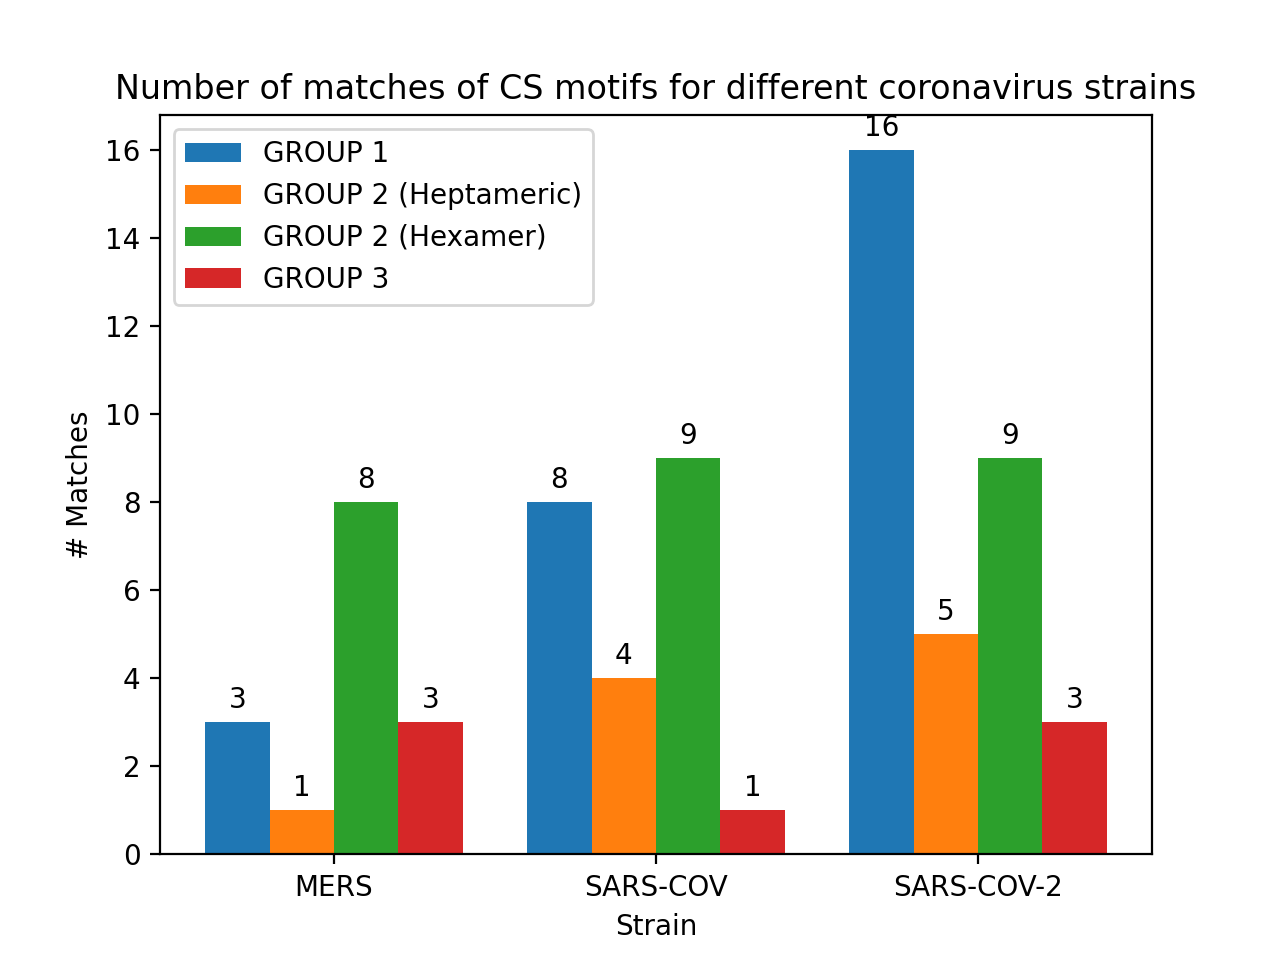
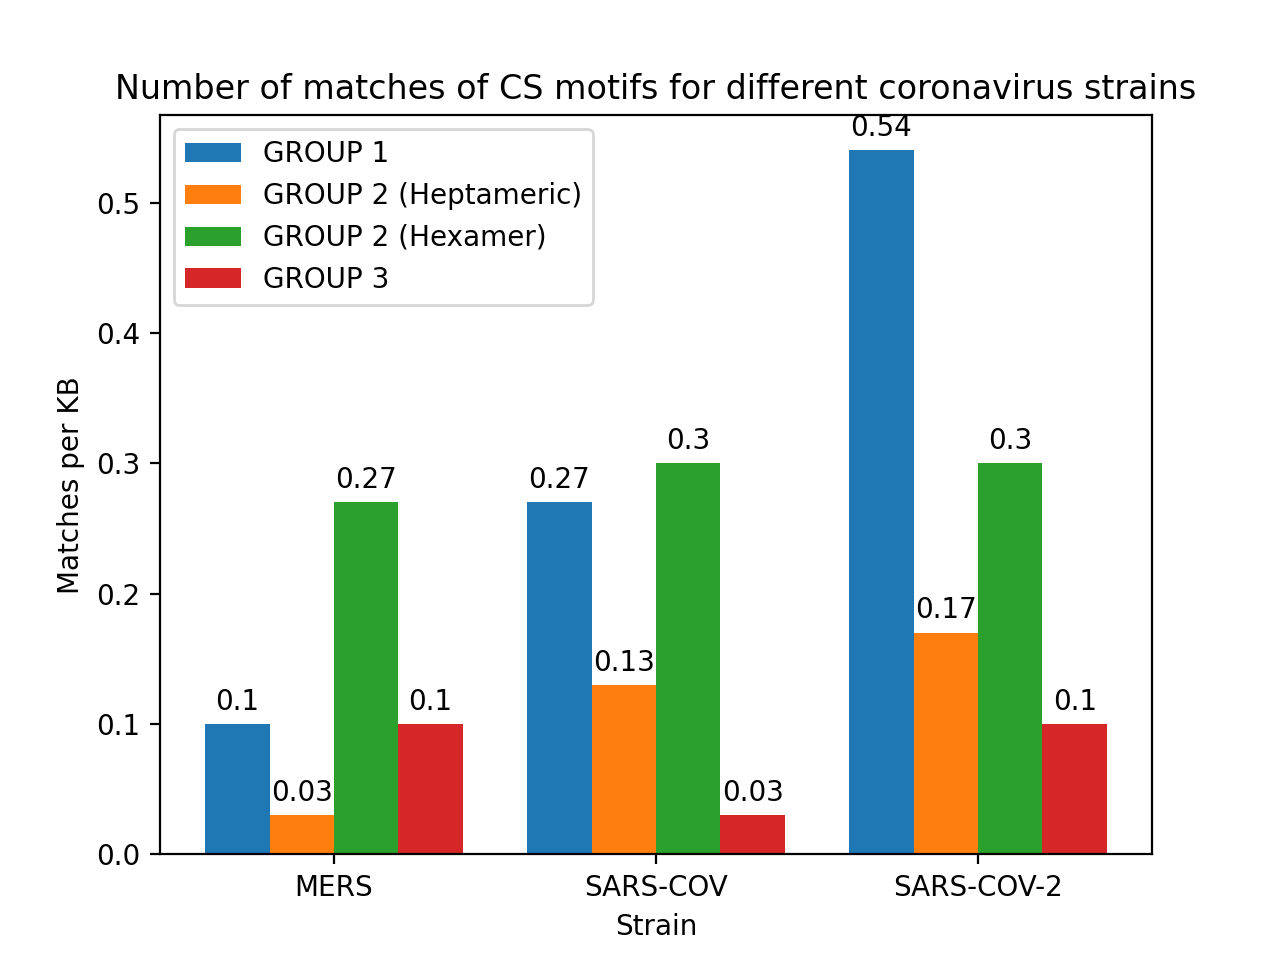
frequency for application

diff --git a/application.py b/application.py
@@ -41,15 +41,17 @@ for text in texts:
         print(f"Searching pattern {pattern} in {text}")
         matches = kmp.kmp(patterns[pattern], texts[text])
         n_matches = len(matches)
-        print(f"{n_matches} were found.")
+        len_text = len(texts[text])
+        freq = round(n_matches/len_text * 1000, 2)
+        print(f"{n_matches} were found. Freq: {freq}")
         if pattern == "GROUP_1":
-            group_1.append(n_matches)
+            group_1.append(freq)
         elif pattern == "GROUP_2_A":
-            group_2_a.append(n_matches)
+            group_2_a.append(freq)
         elif pattern == "GROUP_2_B":
-            group_2_b.append(n_matches)
+            group_2_b.append(freq)
         else:
-            group_3.append(n_matches)
+            group_3.append(freq)
 
 # plot results (code referenced from matplotlib docs)
 x = np.arange(len(strain))  # the label locations
@@ -60,7 +62,7 @@ rects1 = ax.bar(x - 0.3, group_1, width, label='GROUP 1')
 rects2 = ax.bar(x - 0.1, group_2_a, width, label='GROUP 2 (Heptameric)')
 rects3 = ax.bar(x + 0.1, group_2_b, width, label='GROUP 2 (Hexamer)')
 rects4 = ax.bar(x + 0.3, group_3, width, label='GROUP 3')
-ax.set_ylabel('# Matches')
+ax.set_ylabel('Matches per KB')
 ax.set_xlabel('Strain')
 ax.set_title('Number of matches of CS motifs for different coronavirus strains')
 # set three ticks
